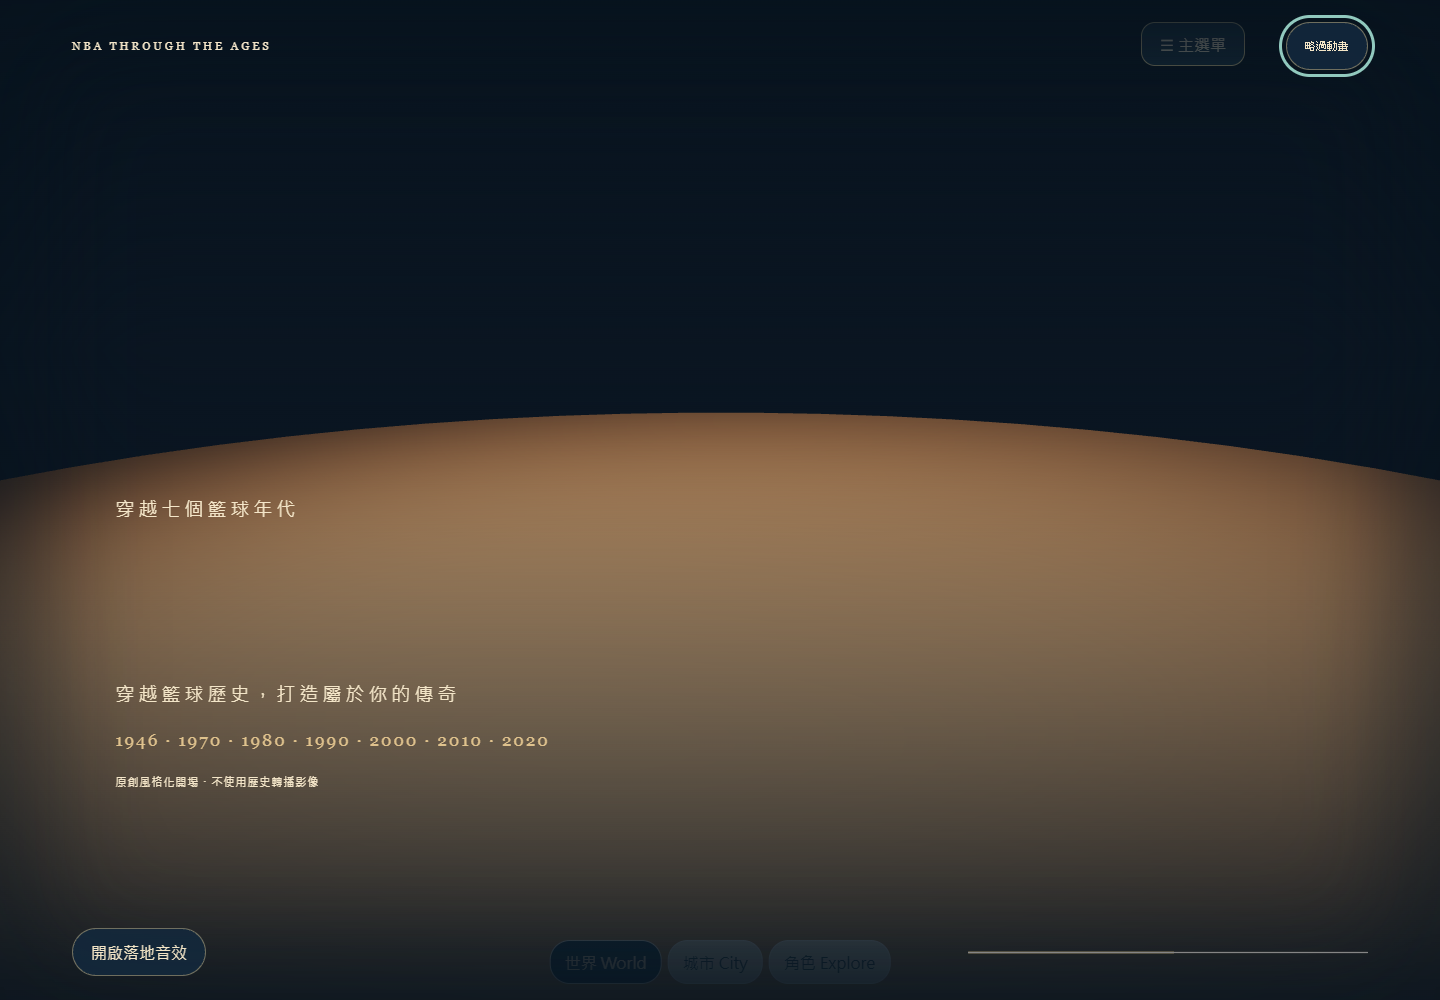
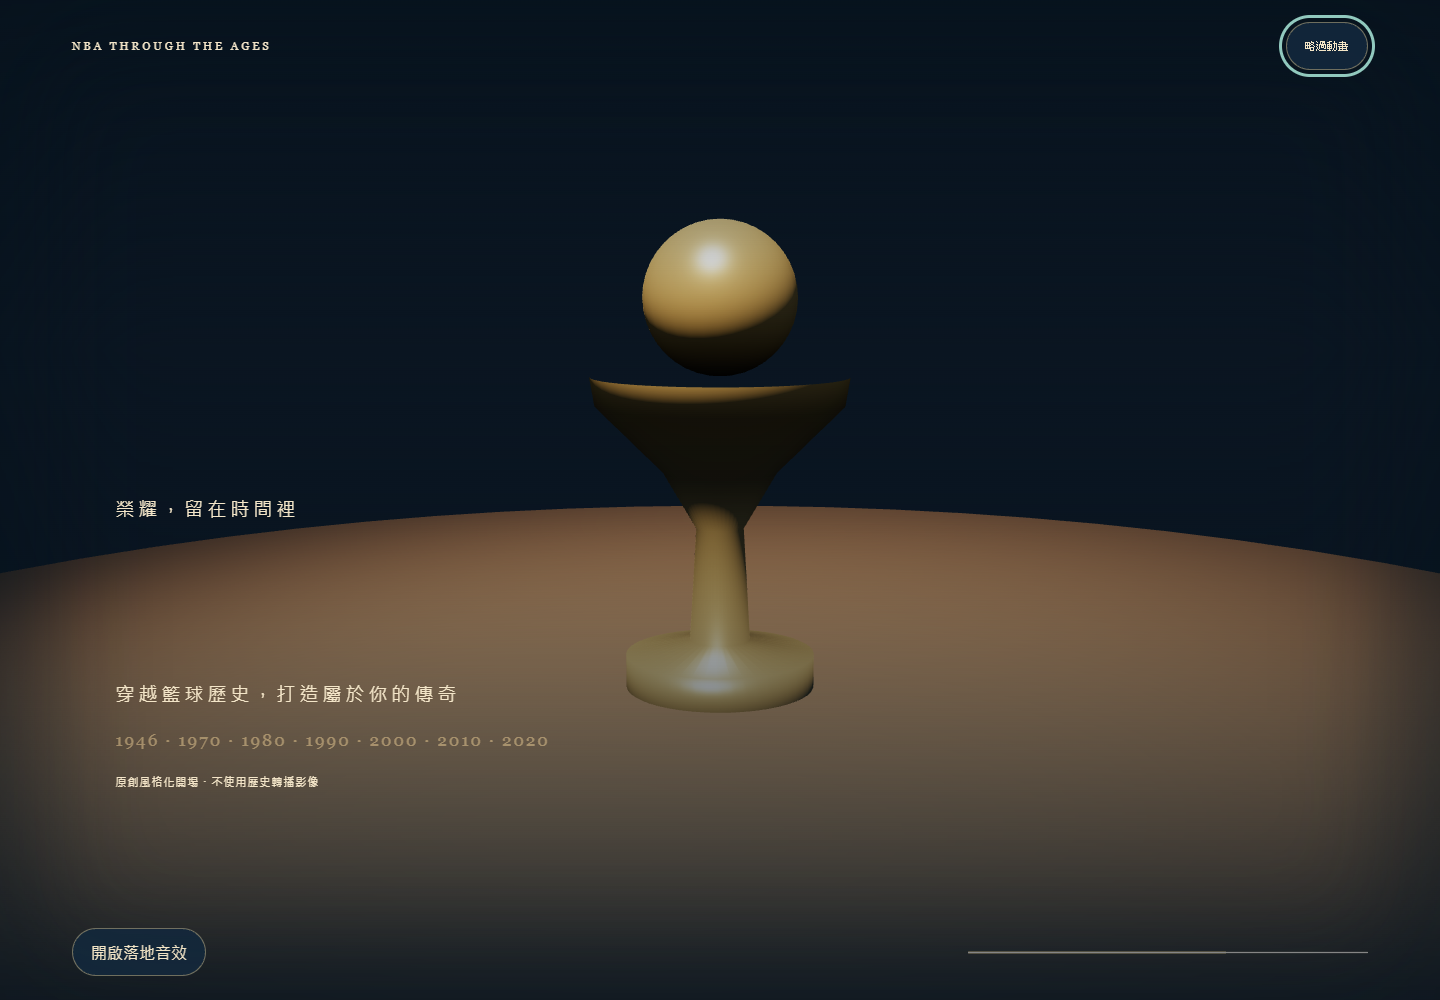
Keep cinematic opening clear of HUD and animate era timeline

Changed region(s): [[0.0, 0.217, 1.0, 0.713], [0.8125, 0.031, 0.8438, 0.062]]

diff --git a/assets/franchise.css b/assets/franchise.css
@@ -2,3 +2,4 @@
 .journey-menu-button{position:absolute;right:195px;top:22px;z-index:65;min-height:44px;padding:10px 18px;border-radius:14px;border:1px solid #e7d5a0;background:#213d51ed;color:#fff4d6;cursor:pointer}.journey-panel{width:min(1040px,calc(100vw - 36px));max-height:90dvh;padding:0;border:1px solid #cdb879;border-radius:24px;background:#f3efdf;color:#254553;box-shadow:0 26px 100px #06162777}.journey-panel::backdrop{background:#091e2b99;backdrop-filter:blur(5px)}.journey-panel>header{display:flex;align-items:center;justify-content:space-between;gap:12px;padding:20px 28px;border-bottom:1px solid #d8d1ba;background:linear-gradient(100deg,#e4e6d8,#f5edd9);position:sticky;top:0;z-index:5}.journey-panel h2{margin:4px 0;font-size:24px}.journey-panel small{letter-spacing:2px;color:#876d40}.journey-panel button,.journey-panel input,.journey-panel select,.journey-panel textarea{min-height:48px;border:1px solid #b8beb2;border-radius:12px;padding:9px 14px;font:inherit;max-width:100%;box-sizing:border-box}.journey-panel button{background:#e2e5d6;color:#274e61;cursor:pointer}.journey-panel .cta{background:#234f6b;color:#fff5df;border-color:#345d74}.journey-panel button:disabled{opacity:.55;cursor:default}.journey-panel :focus-visible{outline:3px solid #3b83a3;outline-offset:3px}.journey-body{padding:24px 28px}.journey-panel p{line-height:1.85}.journey-tabs{display:grid;grid-template-columns:repeat(3,minmax(0,1fr));gap:12px}.journey-tabs button{text-align:left;min-height:105px;padding:18px}.journey-tabs b,.journey-tabs span{display:block}.journey-tabs b{font-size:18px}.journey-tabs span{font-size:12px;color:#627b80;margin-top:8px}.franchise-grid{display:grid;grid-template-columns:230px minmax(0,1fr);gap:24px}.franchise-preview{position:sticky;top:100px;align-self:start;padding:24px;text-align:center;background:linear-gradient(160deg,#d2e2db,#f1e6c8);border-radius:20px}.franchise-preview svg{width:150px;max-width:100%;height:150px}.jersey-preview{display:flex;justify-content:center;gap:15px;margin:15px}.jersey-preview span{display:grid;place-items:center;width:55px;height:65px;clip-path:polygon(20% 0,35% 7%,65% 7%,80% 0,100% 25%,82% 35%,82% 100%,18% 100%,18% 35%,0 25%);font-weight:700}.franchise-fields{display:grid;grid-template-columns:repeat(2,minmax(0,1fr));gap:13px}.franchise-fields label{display:grid;gap:6px;font-size:13px}.franchise-fields .wide{grid-column:1/-1}.franchise-fields fieldset{min-width:0;border:1px solid #d6d0b9;border-radius:14px;padding:15px}.franchise-fields input:not([type=color]),.franchise-fields select,.franchise-fields textarea{width:100%;background:#fffcf2;color:#254553}.franchise-fields input[type=color]{width:100%;padding:4px}.roster-row{display:grid;grid-template-columns:1fr 65px 75px;gap:8px;margin:10px 0}.roster-row input{min-width:0}.journey-actions{display:flex;flex-wrap:wrap;gap:10px;margin-top:20px}.journey-notice{padding:12px 16px;background:#e3e8db;border-radius:12px;font-size:13px;min-height:24px}.journey-error{background:#f0d9cd;color:#8a372a}.city-indicators{display:grid;grid-template-columns:repeat(3,1fr);gap:12px}.city-indicators div,.building-card{padding:15px;border:1px solid #d4d2be;border-radius:14px}.building-grid{display:grid;grid-template-columns:repeat(3,1fr);gap:10px}.building-card small{letter-spacing:0;display:block;margin-top:8px}.match-options{display:grid;grid-template-columns:repeat(2,minmax(0,1fr));gap:15px}.match-options label{display:grid;gap:6px}.match-options fieldset{border:1px solid #c8ccbb;border-radius:16px}.match-roster label{display:flex;align-items:center;padding:7px;gap:10px}.match-roster input{min-height:24px;width:24px}.champ-stage{position:relative;min-height:320px;border-radius:20px;background:radial-gradient(ellipse at 50% 0,#58728a,#173749 85%);color:#f5eedb;overflow:hidden;touch-action:none}.champ-court{position:absolute;left:15%;right:15%;bottom:18px;height:170px;border:3px solid #e5ca8a;border-radius:30px 30px 5px 5px;transform:perspective(350px) rotateX(28deg);background:#a87d54}.champ-hoop{position:absolute;left:calc(50% - 30px);top:55px;width:60px;height:40px;border:3px solid #d2e3e7;border-radius:4px}.champ-hoop:after{content:'';position:absolute;left:15px;top:30px;width:25px;height:10px;border:4px solid #e8ae64;border-radius:50%}.champ-ball{position:absolute;left:calc(50% - 12px);bottom:90px;width:24px;height:24px;border-radius:50%;background:radial-gradient(circle at 30% 30%,#f4b167,#a75724);border:1px solid #633d28;box-shadow:0 10px 12px #092a3655}.champ-stage[data-cue=true] .champ-ball{bottom:175px}.champ-hud{position:relative;z-index:2;display:flex;justify-content:space-between;padding:15px;gap:10px;font-variant-numeric:tabular-nums}.champ-controls{padding:18px;display:grid;grid-template-columns:1fr auto;gap:12px;align-items:center}.champ-controls button{min-width:125px;touch-action:none}.champ-meter{height:24px;background:#cbd5c9;position:relative;border-radius:14px;overflow:hidden}.champ-target{position:absolute;left:34%;width:32%;inset-block:0;background:#e5be64}.champ-cursor{position:absolute;width:5px;top:0;bottom:0;background:#244f67;transform:translateX(-50%)}.champ-result{font-size:30px;text-align:center;font-variant-numeric:tabular-nums;padding:22px}.match-history{list-style:none;padding:0}.match-history li{padding:12px 0;border-bottom:1px solid #cdd3c4;font-size:13px}.era-cards{display:grid;grid-template-columns:repeat(2,1fr);gap:12px}.era-card{border-left:5px solid var(--card-accent);padding:15px;background:#e5e8da;border-radius:12px}.era-card button{margin:7px}.world-levels{display:flex;gap:6px;position:absolute;z-index:60;left:50%;transform:translateX(-50%);bottom:16px}.world-levels button{min-height:44px;border-radius:20px;background:#edf0e7e8;color:#2d5464;border:1px solid #fff;padding:8px 14px;cursor:pointer}.world-levels button[aria-pressed=true]{background:#234c65;color:#fff1d5}.walk-controls{position:absolute;bottom:100px;left:22px;z-index:65;display:flex;align-items:center;gap:12px}.walk-pad{position:relative;width:112px;height:112px;border-radius:50%;background:#f4efd6aa;touch-action:none;border:1px solid #fff;user-select:none}.walk-pad:before{content:'↟';position:absolute;inset:0;display:grid;place-items:center;font-size:48px;color:#4f7480aa}.walk-knob{position:absolute;left:38px;top:38px;width:36px;height:36px;border-radius:50%;background:#37677bcc;pointer-events:none}.walk-controls button{min-height:48px;max-width:125px;border:1px solid #fff;border-radius:15px;background:#f3efdeee;color:#31566b;padding:10px;touch-action:none}.explore-mode-note{position:absolute;left:22px;bottom:76px;z-index:64;color:#31576c;font-size:11px;pointer-events:none}.journey-panel progress{width:100%;accent-color:#bd964d}.journey-panel [hidden],.walk-controls[hidden],.explore-mode-note[hidden]{display:none!important}
 @media(max-width:760px){.journey-menu-button{top:62px;right:10px;padding:8px 13px;font-size:12px}.journey-panel{width:100vw;max-width:100vw;height:100dvh;max-height:100dvh;margin:0;border:0;border-radius:0}.journey-panel>header{padding:12px 16px}.journey-panel h2{font-size:20px}.journey-body{padding:18px 16px}.journey-tabs{grid-template-columns:repeat(2,minmax(0,1fr));gap:9px}.journey-tabs button{padding:13px;min-height:100px}.journey-tabs b{font-size:16px}.franchise-grid{grid-template-columns:1fr}.franchise-preview{position:static;padding:12px;display:flex;align-items:center;justify-content:space-around;gap:12px}.franchise-preview svg{width:85px;height:85px}.franchise-preview h3{font-size:16px}.jersey-preview{margin:8px;gap:7px}.jersey-preview span{width:34px;height:42px}.franchise-fields{gap:10px}.roster-row{grid-template-columns:1fr 60px 65px}.city-indicators,.building-grid{grid-template-columns:repeat(2,1fr)}.match-options{grid-template-columns:1fr}.champ-stage{min-height:275px}.champ-controls{padding:14px 0}.era-cards{grid-template-columns:1fr}.world-levels{bottom:63px;gap:3px;max-width:calc(100% - 20px);width:max-content}.world-levels button{font-size:11px;min-height:40px;padding:6px 11px}.walk-controls{left:10px;bottom:115px;gap:7px}.walk-pad{width:100px;height:100px}.walk-knob{left:32px;top:32px}.walk-controls button{font-size:11px;max-width:90px}.explore-mode-note{left:10px;bottom:105px}.champ-result{font-size:23px}}
 @media(max-height:500px) and (orientation:landscape){.journey-menu-button{top:8px;right:120px}.world-levels{bottom:8px}.walk-controls{bottom:60px}.walk-pad{width:90px;height:90px}.walk-knob{left:27px;top:27px}.explore-mode-note{bottom:45px}.champ-stage{min-height:220px}.franchise-preview{position:static}}
+.opening-active :is(.journey-menu-button,.world-levels,.walk-controls,.explore-mode-note,#station-panel,#station-directory){visibility:hidden}.opening-year{display:inline-block;transition:color .15s,transform .15s;opacity:.55}.opening-year:not(:last-child)::after{content:' · ';white-space:pre}.opening-year[data-active=true]{color:#fff6d8;opacity:1;transform:translateY(-4px)}@media(prefers-reduced-motion:reduce){.opening-year{transition:none}}

diff --git a/assets/journey-ui.js b/assets/journey-ui.js
@@ -3,12 +3,12 @@
   function persist(){try{localStorage.setItem(C.KEY,JSON.stringify(settings));}catch{}document.documentElement.style.setProperty('--era-accent',C.environment(settings.era,settings.phase).accent);r.dispatchEvent(new CustomEvent('nba:presentation',{detail:{...settings}}));}
   function state(now=performance.now()){return {...C.intro(elapsed+(started?now-started:0),matchMedia('(prefers-reduced-motion:reduce)').matches),active:Boolean(opening&&!opening.hidden)};}
   const captions=['聽見第一聲落地','聚光燈下，每一球都有故事','穿越七個籃球年代','榮耀，留在時間裡','從一座城市，走向整個聯盟','夢回 NBA'];
-  function frame(now){raf=0;if(!opening||opening.hidden||document.hidden)return;const s=state(now);opening.dataset.stage=s.stage;$('opening-caption').textContent=captions[s.stage];$('opening-progress').value=s.elapsed;$('opening-start').hidden=!s.complete;$('opening-continue').hidden=!s.complete||!(seen||resumeAvailable||r.NBAFranchiseUI?.hasProgress());$('opening-status').textContent=s.complete?'準備好，開始你的籃球旅程。':'原創風格化開場・不使用歷史轉播影像';if(s.complete){elapsed=10000;started=0;return;}raf=requestAnimationFrame(frame);}
+  function frame(now){raf=0;if(!opening||opening.hidden||document.hidden)return;const s=state(now);opening.dataset.stage=s.stage;opening.querySelectorAll('.opening-year').forEach((el,i)=>el.dataset.active=String(s.stage===2&&i===Math.min(6,Math.floor((s.elapsed-3600)/250))));$('opening-caption').textContent=captions[s.stage];$('opening-progress').value=s.elapsed;$('opening-start').hidden=!s.complete;$('opening-continue').hidden=!s.complete||!(seen||resumeAvailable||r.NBAFranchiseUI?.hasProgress());$('opening-status').textContent=s.complete?'準備好，開始你的籃球旅程。':'原創風格化開場・不使用歷史轉播影像';if(s.complete){elapsed=10000;started=0;return;}raf=requestAnimationFrame(frame);}
   function showOpening(force=false){if(!force&&(seen||new URL(location.href).searchParams.get('intro')==='skip'))return;elapsed=0;started=performance.now();opening.hidden=false;document.querySelector("main").inert=true;document.body.classList.add('opening-active');$('opening-skip').focus();r.dispatchEvent(new Event('nba:opening'));frame(performance.now());}
   function finish(){cancelAnimationFrame(raf);raf=0;opening.hidden=true;document.querySelector("main").inert=false;document.body.classList.remove('opening-active');$('journey-bounce').pause();try{localStorage.setItem(C.INTRO_KEY,'seen');}catch{}seen=true;r.dispatchEvent(new Event('nba:opening'));$('island-map').focus();showTutorial();}
   const tips=['先選一枚隊徽，拉近一座球隊島。','使用清單選場館或景點，角色會沿道路前往；抵達後才開啟互動。','打開右上主選單，建立你的虛構球隊、走訪專屬島或開始快速對戰。收藏中心可換裝與回看合影；設定可切年代、日夜與畫質。'];
   function showTutorial(){if(new URL(location.href).searchParams.get('intro')==='skip')return;try{if(localStorage.getItem('nba-policy-island:tutorial:v1')==='done')return;}catch{}$('journey-tutorial').hidden=false;$('tutorial-copy').textContent=tips[tutorialStep];$('tutorial-next').textContent=tutorialStep===2?'開始自由探索':'下一步';}
-  function mount(mapController){controller=mapController;document.body.insertAdjacentHTML('beforeend',`<section id="opening" class="opening" role="dialog" aria-modal="true" aria-label="夢回 NBA 電影式開場" hidden><div class="opening-vignette"></div><div class="opening-top"><span>NBA THROUGH THE AGES</span><button id="opening-skip" type="button">略過動畫</button></div><div class="opening-copy"><p id="opening-caption"></p><h1>夢回 NBA</h1><p>穿越籃球歷史，打造屬於你的傳奇</p><div class="opening-years">1946 · 1970 · 1980 · 1990 · 2000 · 2010 · 2020</div><p id="opening-status" role="status"></p><button id="opening-start" type="button" hidden>開始旅程 →</button><button id="opening-continue" type="button" hidden>繼續遊戲</button></div><div class="opening-bottom"><button id="opening-sound" type="button" aria-pressed="false">開啟落地音效</button><progress id="opening-progress" max="10000" value="0" aria-label="開場進度"></progress></div></section><aside id="journey-tutorial" class="journey-tutorial" aria-label="漸進式探索教學" hidden><small>你的時光旅程</small><p id="tutorial-copy"></p><button id="tutorial-next" type="button">下一步</button><button id="tutorial-dismiss" type="button">稍後再看</button></aside><audio id="journey-bounce" src="./assets/audio/journey-bounce.wav" preload="none"></audio>`);
+  function mount(mapController){controller=mapController;document.body.insertAdjacentHTML('beforeend',`<section id="opening" class="opening" role="dialog" aria-modal="true" aria-label="夢回 NBA 電影式開場" hidden><div class="opening-vignette"></div><div class="opening-top"><span>NBA THROUGH THE AGES</span><button id="opening-skip" type="button">略過動畫</button></div><div class="opening-copy"><p id="opening-caption"></p><h1>夢回 NBA</h1><p>穿越籃球歷史，打造屬於你的傳奇</p><div class="opening-years">${[1946,1970,1980,1990,2000,2010,2020].map(y=>`<span class="opening-year">${y}</span>`).join('')}</div><p id="opening-status" role="status"></p><button id="opening-start" type="button" hidden>開始旅程 →</button><button id="opening-continue" type="button" hidden>繼續遊戲</button></div><div class="opening-bottom"><button id="opening-sound" type="button" aria-pressed="false">開啟落地音效</button><progress id="opening-progress" max="10000" value="0" aria-label="開場進度"></progress></div></section><aside id="journey-tutorial" class="journey-tutorial" aria-label="漸進式探索教學" hidden><small>你的時光旅程</small><p id="tutorial-copy"></p><button id="tutorial-next" type="button">下一步</button><button id="tutorial-dismiss" type="button">稍後再看</button></aside><audio id="journey-bounce" src="./assets/audio/journey-bounce.wav" preload="none"></audio>`);
     opening=$('opening');$('opening-start').addEventListener('click',finish);$('opening-continue').addEventListener('click',finish);$('opening-skip').addEventListener('click',finish);$('opening-sound').addEventListener('click',()=>{sound=!sound;$('opening-sound').setAttribute('aria-pressed',String(sound));$('opening-sound').textContent=sound?'音效已開啟':'開啟落地音效';if(sound){$('journey-bounce').currentTime=0;$('journey-bounce').play().catch(()=>{});}else $('journey-bounce').pause();});
     document.addEventListener('keydown',e=>{if(opening.hidden)return;if(e.key==='Escape'){e.preventDefault();finish();}if(e.key==='Tab'){const buttons=[...opening.querySelectorAll('button')].filter(b=>!b.hidden),first=buttons[0],last=buttons.at(-1);if(e.shiftKey&&document.activeElement===first){e.preventDefault();last.focus();}else if(!e.shiftKey&&document.activeElement===last){e.preventDefault();first.focus();}}});document.addEventListener('visibilitychange',()=>{if(opening.hidden)return;if(document.hidden){if(started)elapsed+=performance.now()-started;started=0;cancelAnimationFrame(raf);$('journey-bounce').pause();}else{started=performance.now();frame(started);r.dispatchEvent(new Event('nba:opening'));}});
     const settingsHost=$('map-settings')||$('journey-settings');if(settingsHost){settingsHost.addEventListener('click',e=>{if(e.target.closest('#shop-cart-open,#memory-open,#showroom-open')){settingsHost.hidden=true;$('hud-settings-toggle')?.setAttribute('aria-expanded','false');}});const box=document.createElement('section');box.className='journey-options';box.innerHTML=`<h3>籃球時光</h3><label for="era-select">年代氛圍</label><select id="era-select"></select><p id="era-description"></p><button id="opening-replay" type="button">重播開場</button><button id="tutorial-replay" type="button">探索教學</button>`;settingsHost.append(box);for(const e of C.ERAS){const o=document.createElement('option');o.value=e.id;o.textContent=e.label;$('era-select').append(o);}$('era-select').value=settings.era;const describe=()=>{const e=C.environment(settings.era,settings.phase);$('era-description').textContent=e.material+' · '+e.layout+'。氛圍設定不改變史實、賽況或遊戲難度。';};describe();$('era-select').addEventListener('change',()=>{settings.era=$('era-select').value;describe();persist();});$('opening-replay').addEventListener('click',()=>{settingsHost.hidden=true;showOpening(true);});$('tutorial-replay').addEventListener('click',()=>{tutorialStep=0;$('journey-tutorial').hidden=false;$('tutorial-copy').textContent=tips[0];});}
